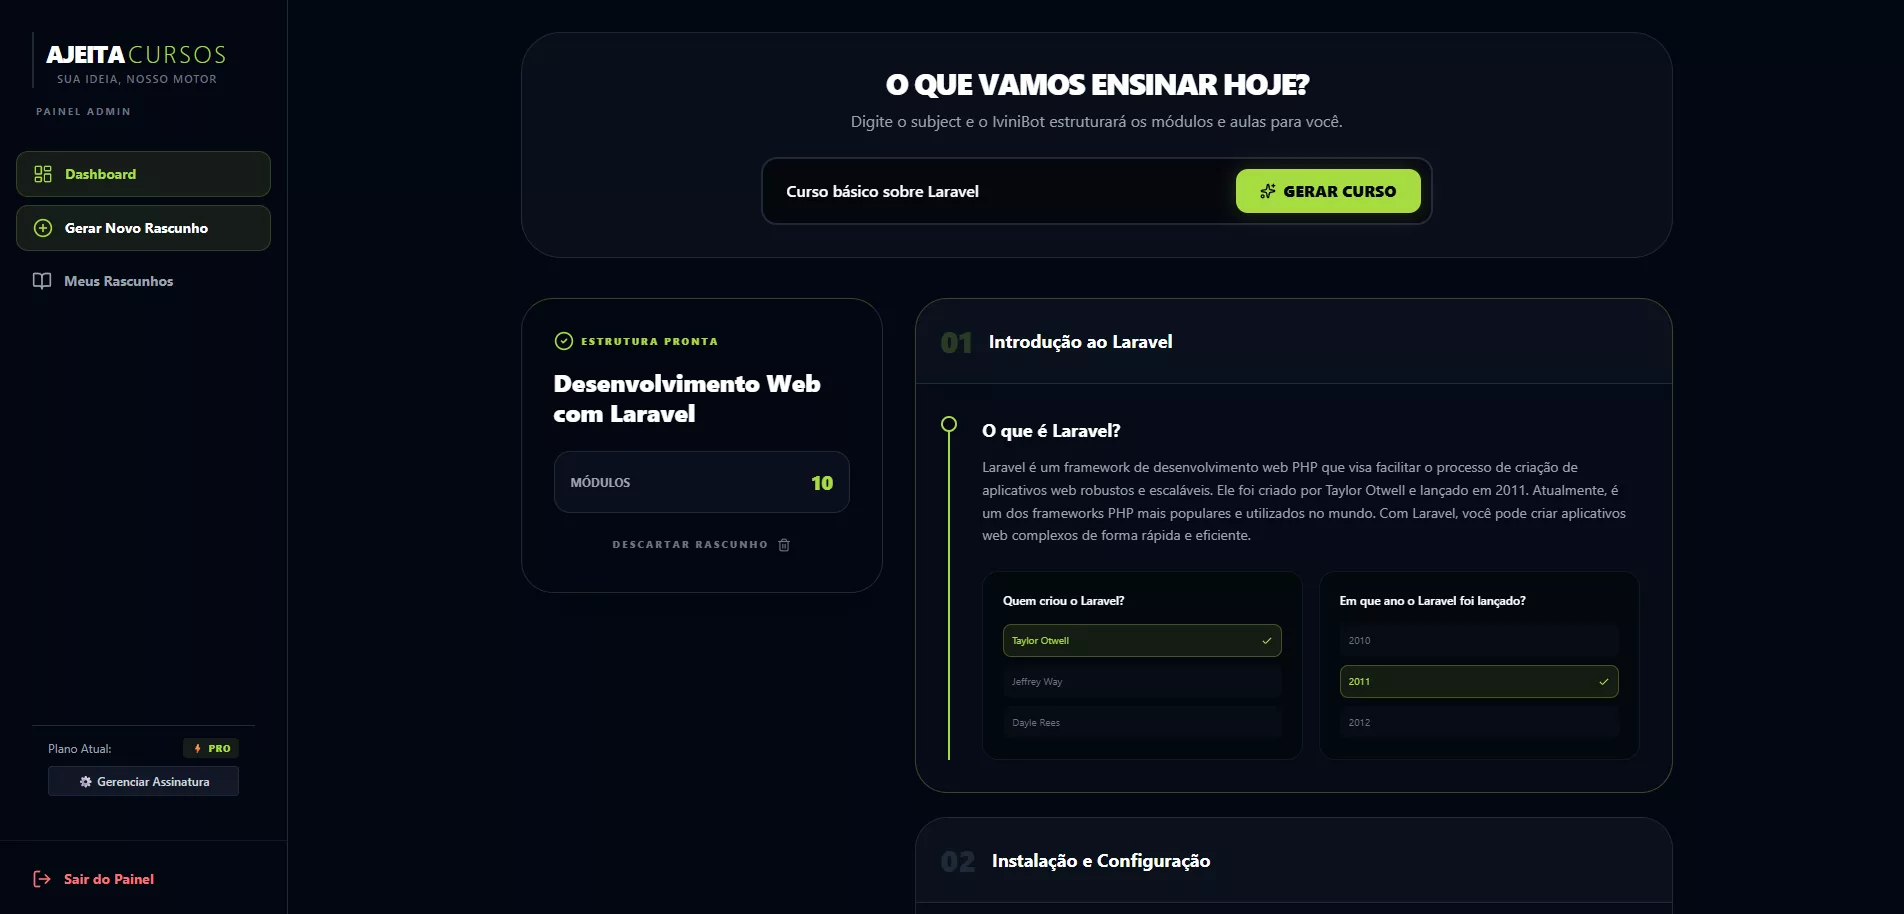
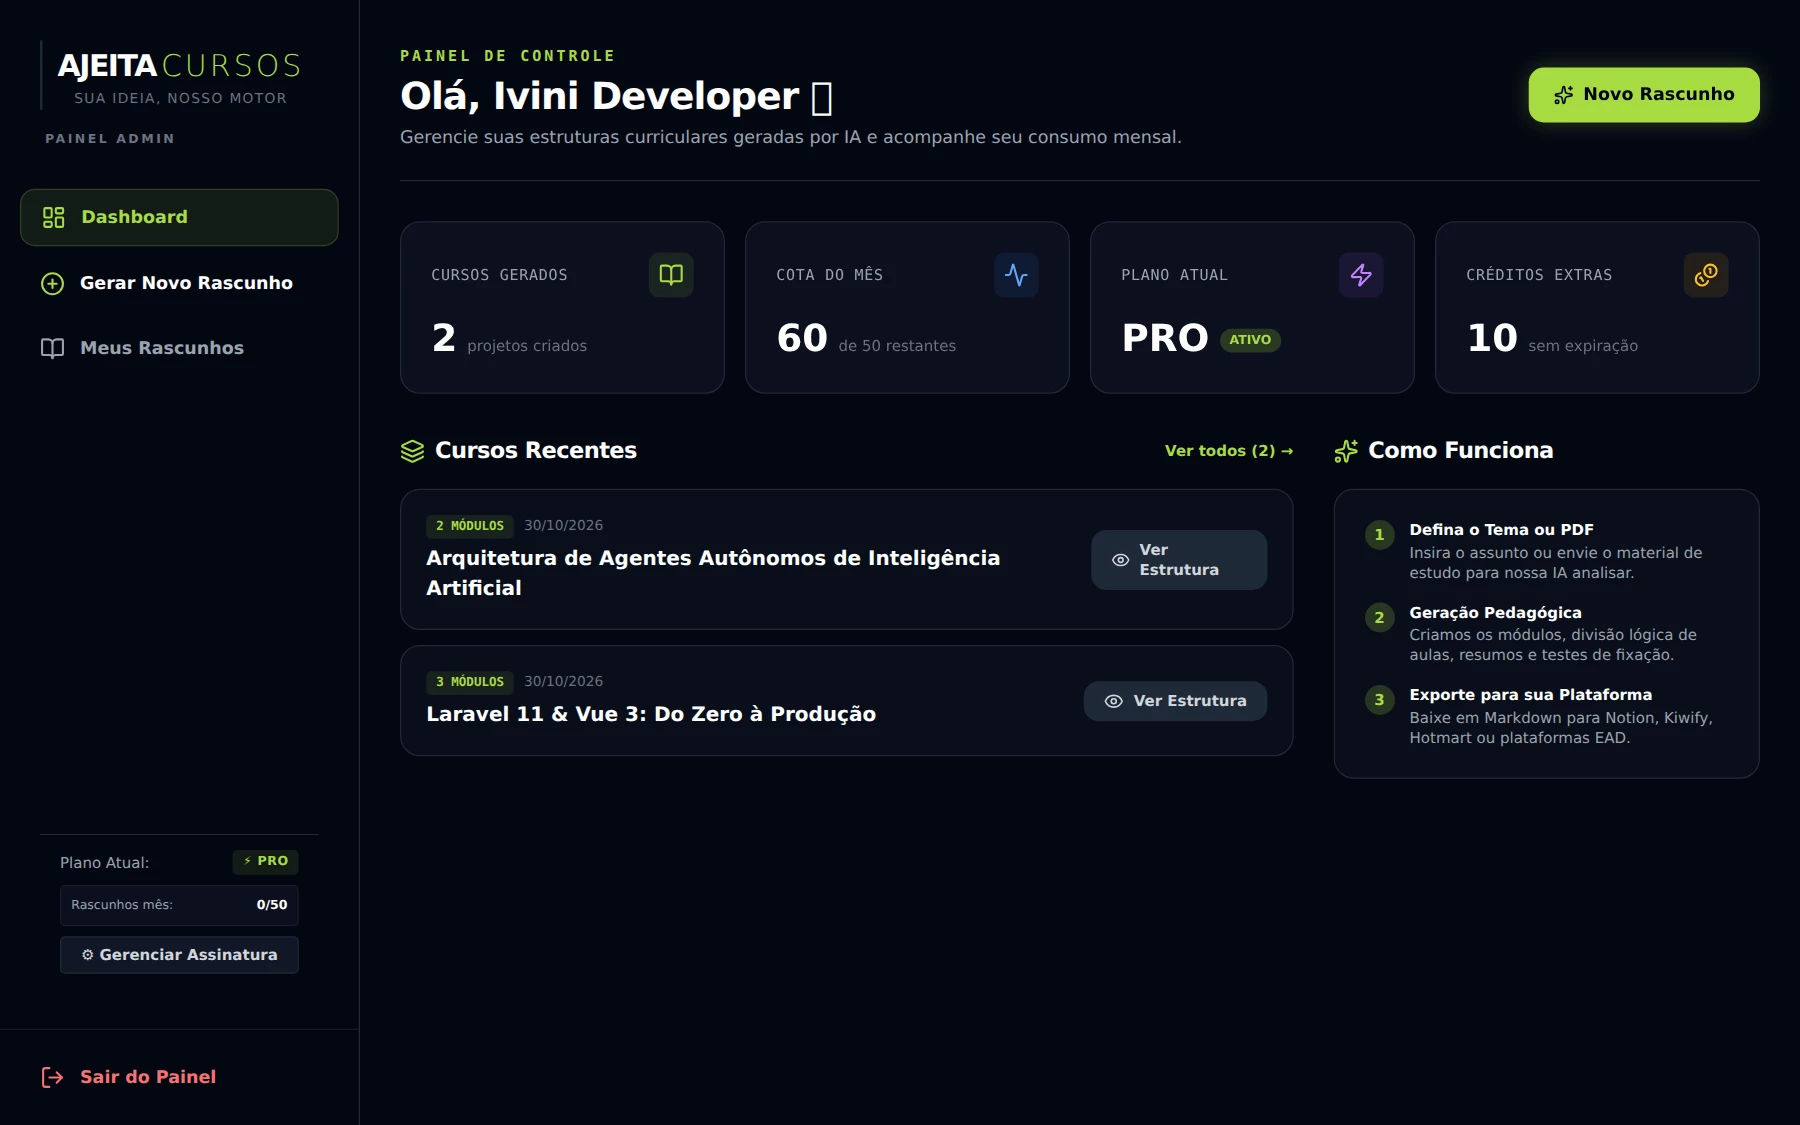
Add images and fix link faturas

diff --git a/app/components/Projetos.vue b/app/components/Projetos.vue
@@ -203,7 +203,7 @@ const projects = [
     id: 'clientes-ivini',
     title: 'Portal de Clientes & Faturamento',
     description: 'Sistema corporativo de faturamento, homologação de entregas, assinatura de contratos digitais e checkout transparente (PIX e Cartão via Mercado Pago) com liberação automatizada para clientes.',
-    url: 'https://clientes.ivini.dev',
+    url: 'https://cliente.ivini.dev',
     tags: [
       'PHP / Laravel',
       'Nuxt.js',
@@ -291,23 +291,89 @@ const projects = [
   {
     id: 'ajeita-cursos',
     title: 'Ajeita Cursos',
-    description: 'Plataforma SaaS full-stack que converte PDFs e temas em cursos estruturados usando inteligência artificial (Google Gemini e Grok).',
+    description: 'Plataforma SaaS full-stack que converte PDFs e temas em cursos estruturados usando inteligência artificial (Google Gemini e Grok), com painel do instrutor, geração de quizzes e exportação.',
     url: 'https://ajeitacursos.com.br/',
     tags: [
-      'Vue.js',
+      'Vue.js 3',
       'TailwindCSS',
       'PHP / Laravel',
+      'Laravel Sanctum',
       'Google Cloud',
-      'MySQL',
-      'Docker',
+      'MySQL & Docker',
       'Rest Api',
       'Api Stripe'
     ],
     images: [
       {
-        src: '/images/ajeita-cursos.webp',
-        alt: 'Ajeita Cursos - Plataforma de Cursos Online Gerados por IA',
-        subHtml: '<h4>Ajeita Cursos - Gerador de Cursos com IA</h4><p>Estruturação automática de módulos, aulas e quizzes interativos a partir de temas ou documentos PDF.</p>'
+        src: '/images/ajeita-cursos-dashboard.webp',
+        alt: 'Ajeita Cursos - Dashboard do Instrutor com Métricas e Cota Mensal',
+        subHtml: '<h4>Ajeita Cursos - Painel do Instrutor</h4><p>Visão geral de cursos criados, consumo da cota mensal, créditos extras e histórico de projetos.</p>'
+      },
+      {
+        src: '/images/ajeita-cursos-estrutura.webp',
+        alt: 'Ajeita Cursos - Visualização Pedagógica de Módulos, Lições e Quizzes',
+        subHtml: '<h4>Estrutura Curricular Gerada por IA</h4><p>Módulos, lições sequenciais, testes de fixação interativos com gabarito e exportação em Markdown.</p>'
+      },
+      {
+        src: '/images/ajeita-cursos-meus-rascunhos.webp',
+        alt: 'Ajeita Cursos - Catálogo de Rascunhos e Cursos Gerados',
+        subHtml: '<h4>Catálogo de Cursos Criados</h4><p>Gerenciamento de cursos com tags de processamento de IA, data e acesso rápido aos detalhes.</p>'
+      },
+      {
+        src: '/images/ajeita-cursos-gerar.webp',
+        alt: 'Ajeita Cursos - Gerador Inteligente por Tema',
+        subHtml: '<h4>Gerador de Cursos com IA</h4><p>Criação instantânea de ementas completas a partir de temas ou transcrição de arquivos PDF.</p>'
+      },
+      {
+        src: '/images/ajeita-cursos-login.webp',
+        alt: 'Ajeita Cursos - Portal de Autenticação e Login',
+        subHtml: '<h4>Autenticação SPA Segura</h4><p>Login com cookies de sessão protegidos via Laravel Sanctum e controle de planos de assinatura.</p>'
+      },
+      {
+        src: '/images/ajeita-cursos-landing.webp',
+        alt: 'Ajeita Cursos - Landing Page Oficial',
+        subHtml: '<h4>Landing Page & Proposta de Valor</h4><p>Página de conversão apresentando os recursos de IA pedagógica e compatibilidade com plataformas EAD.</p>'
+      }
+    ]
+  },
+  {
+    id: 'quiz-valorant',
+    title: 'Quiz Valorant',
+    description: 'Aplicação interativa de quiz temático do universo FPS Valorant desenvolvida com Next.js e Styled Components, com pontuação em tempo real, feedbacks visuais dinâmicos e ranking de participantes.',
+    url: 'https://quiz-valorant.vercel.app/',
+    tags: [
+      'React.js',
+      'Next.js',
+      'Styled Components',
+      'Vercel Serverless',
+      'Gamificação',
+      'State Management'
+    ],
+    images: [
+      {
+        src: '/images/valorant-quiz-home.webp',
+        alt: 'Quiz Valorant - Tela Inicial e Seleção de Jogador',
+        subHtml: '<h4>Quiz Valorant - Apresentação & Início do Jogo</h4><p>Interface temática com visual oficial do game, formulário para identificação do soldado e galeria de quizes comunitários.</p>'
+      },
+      {
+        src: '/images/valorant-quiz-question.webp',
+        alt: 'Quiz Valorant - Pergunta e Alternativas Interativas',
+        subHtml: '<h4>Dinâmica de Perguntas & Alternativas</h4><p>Rodadas com perguntas de conhecimento tático, imagens contextualizadas e sistema de alternativas radio estilizadas.</p>'
+      },
+      {
+        src: '/images/valorant-quiz-feedback.webp',
+        alt: 'Quiz Valorant - Feedback Imediato de Resposta Certa ou Errada',
+        subHtml: '<h4>Feedback Imediato de Resposta</h4><p>Validação em tempo real com realce de status visual antes de avançar para a próxima rodada.</p>'
+      },
+      {
+        src: '/images/valorant-quiz-result.webp',
+        alt: 'Quiz Valorant - Tela Final de Pontuação e Gabarito',
+        subHtml: '<h4>Relatório Final de Resultados</h4><p>Resumo da pontuação final, exibição do total de acertos e conferência detalhada do gabarito de todas as questões.</p>'
+      },
+      {
+        src: '/images/valorant-quiz-start.webp',
+        alt: 'Quiz Valorant - Identificação e Liberação de Partida',
+        subHtml: '<h4>Validação de Estado do Formulário</h4><p>Habilitação dinâmica do botão de início após preenchimento do nome do jogador.</p>'
       }
     ]
   }

diff --git a/app/app.vue b/app/app.vue
@@ -218,7 +218,7 @@ const schemaData = {
           'item': {
             '@type': 'WebApplication',
             'name': 'Portal de Clientes & Faturamento Ivini.dev',
-            'url': 'https://clientes.ivini.dev',
+            'url': 'https://cliente.ivini.dev',
             'applicationCategory': 'BusinessApplication',
             'operatingSystem': 'Web',
             'image': 'https://ivini.dev/images/clientes-painel.webp',
@@ -249,8 +249,22 @@ const schemaData = {
             'url': 'https://ajeitacursos.com.br/',
             'applicationCategory': 'EducationalApplication',
             'operatingSystem': 'Web',
-            'image': 'https://ivini.dev/images/ajeita-cursos.webp',
+            'image': 'https://ivini.dev/images/ajeita-cursos-dashboard.webp',
             'description': 'Plataforma SaaS full-stack que converte PDFs e temas em cursos estruturados e interativos utilizando Inteligência Artificial (Google Gemini e Grok).',
+            'author': { '@id': 'https://ivini.dev/#person' }
+          }
+        },
+        {
+          '@type': 'ListItem',
+          'position': 6,
+          'item': {
+            '@type': 'WebApplication',
+            'name': 'Quiz Valorant',
+            'url': 'https://quiz-valorant.vercel.app/',
+            'applicationCategory': 'GameApplication',
+            'operatingSystem': 'Web',
+            'image': 'https://ivini.dev/images/valorant-quiz-home.webp',
+            'description': 'Aplicação gamificada de quiz temático do FPS Valorant com Next.js, Styled Components e feedback interativo em tempo real.',
             'author': { '@id': 'https://ivini.dev/#person' }
           }
         }

diff --git a/app/components/Contato.vue b/app/components/Contato.vue
@@ -14,7 +14,7 @@
       <span class="trust-divider" aria-hidden="true">•</span>
       <a href="https://www.linkedin.com/in/johnatanivini" target="_blank" rel="noopener noreferrer" class="contact-channel-link">LinkedIn (Johnatan Ivini) ↗</a>
       <span class="trust-divider" aria-hidden="true">•</span>
-      <a href="https://clientes.ivini.dev" target="_blank" rel="noopener noreferrer" class="contact-channel-link">Portal de Clientes ↗</a>
+      <a href="https://cliente.ivini.dev" target="_blank" rel="noopener noreferrer" class="contact-channel-link">Portal de Clientes ↗</a>
     </div>
   </section>
 </template>
